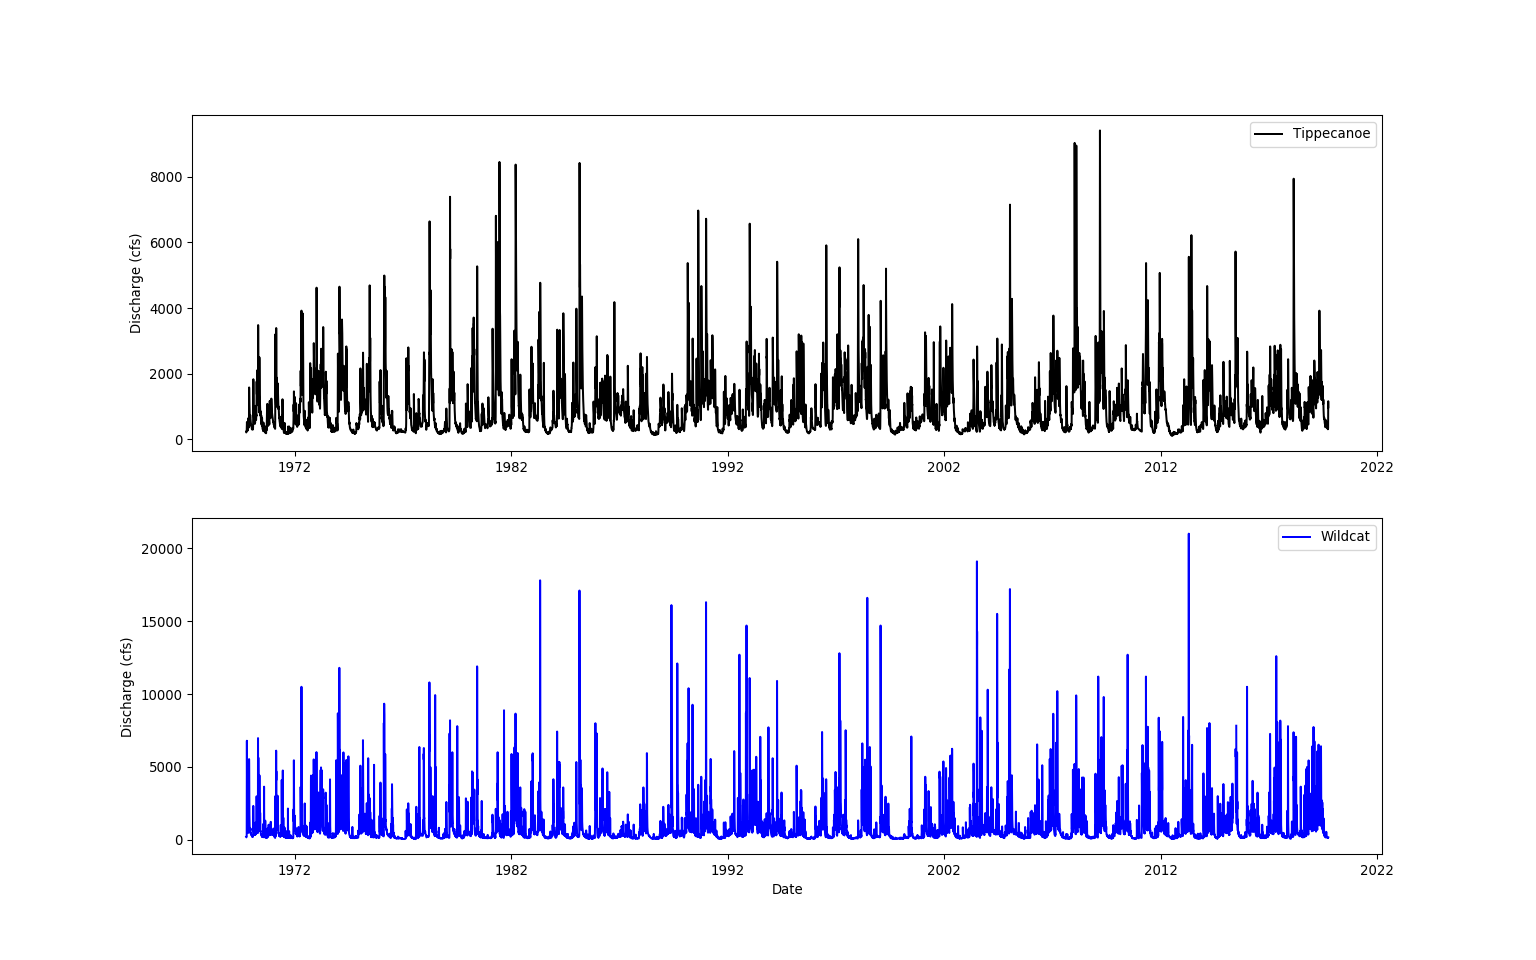
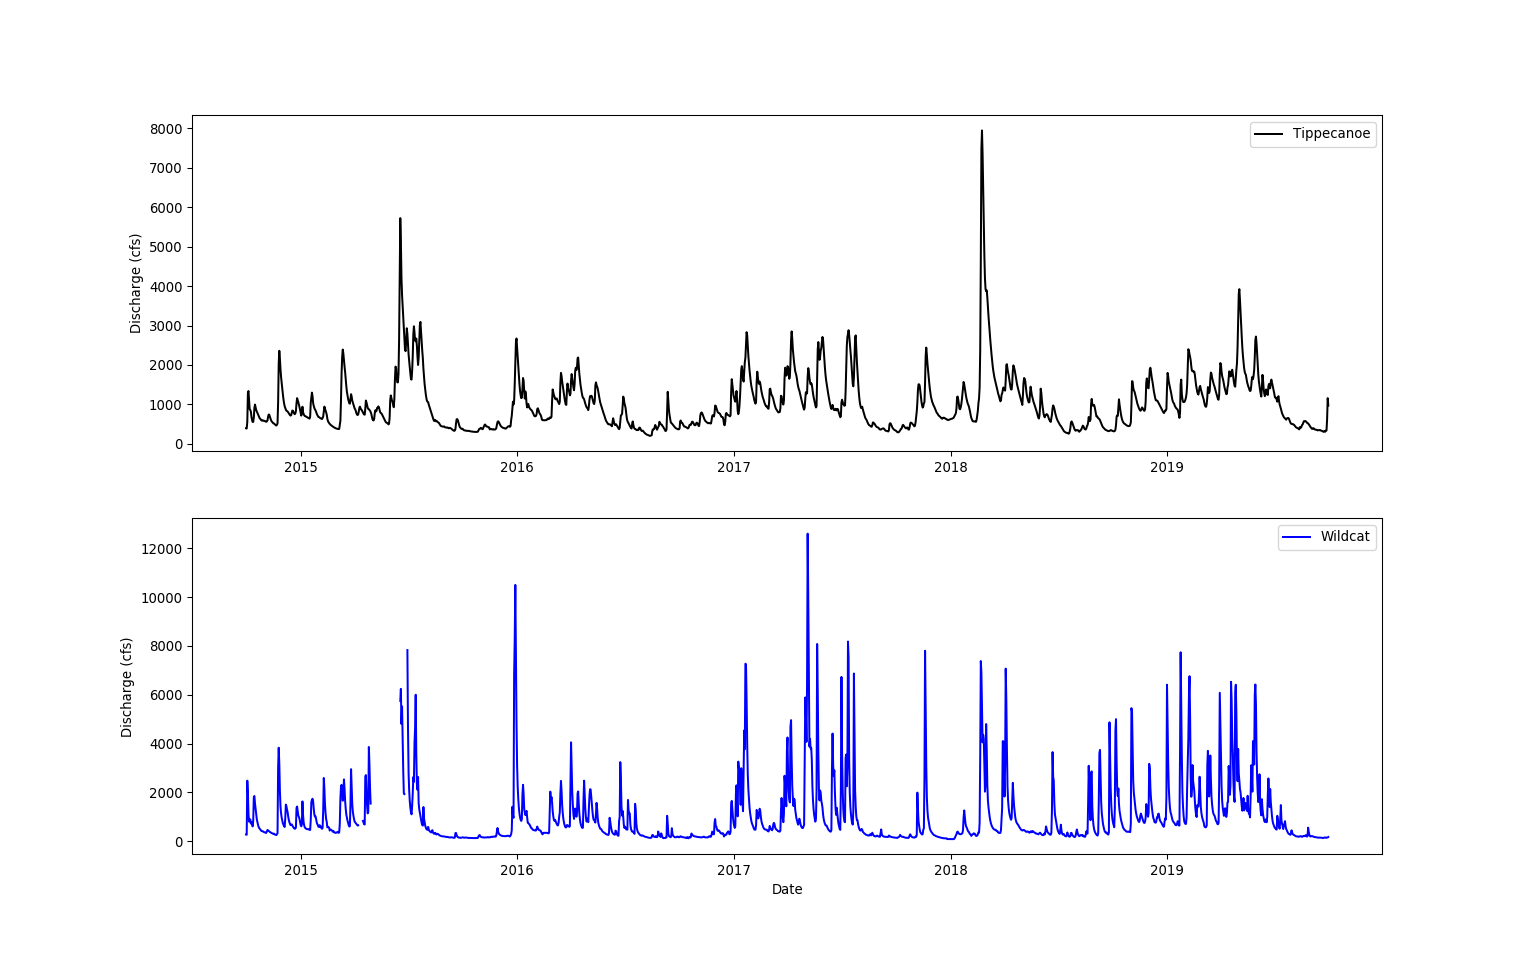
Figure updates

diff --git a/program_11.py b/program_11.py
@@ -134,13 +134,15 @@ if __name__ == '__main__':
 
 #Figures
 #Daily Stream Flow Plot
+    Wild5= DataDF['Wildcat']['2014-10-01' : '2019-09-30'] #Last 5 years
+    Tippe5= DataDF['Tippe']['2014-10-01' : '2019-09-30'] #last 5 years 
     plt.figure(figsize=(16,10)) #custom size for better view
     plt.subplot(211)
-    plt.plot(DataDF ['Tippe']['Discharge'], 'black',label = 'Tippecanoe')
+    plt.plot(Tippe5['Discharge'], 'black',label = 'Tippecanoe')
     plt.ylabel('Discharge (cfs)')
     plt.legend(loc='upper right')
     plt.subplot(212)
-    plt.plot(DataDF['Wildcat']['Discharge'], 'blue',label = 'Wildcat')
+    plt.plot(Wild5['Discharge'], 'blue',label = 'Wildcat')
     plt.xlabel('Date')
     plt.ylabel('Discharge (cfs)')
     plt.legend(loc='upper right') #adding legend location 
